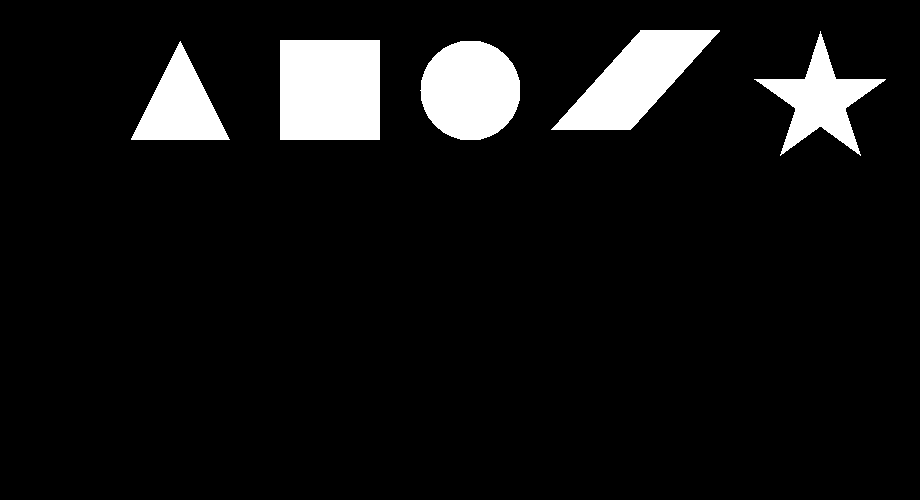
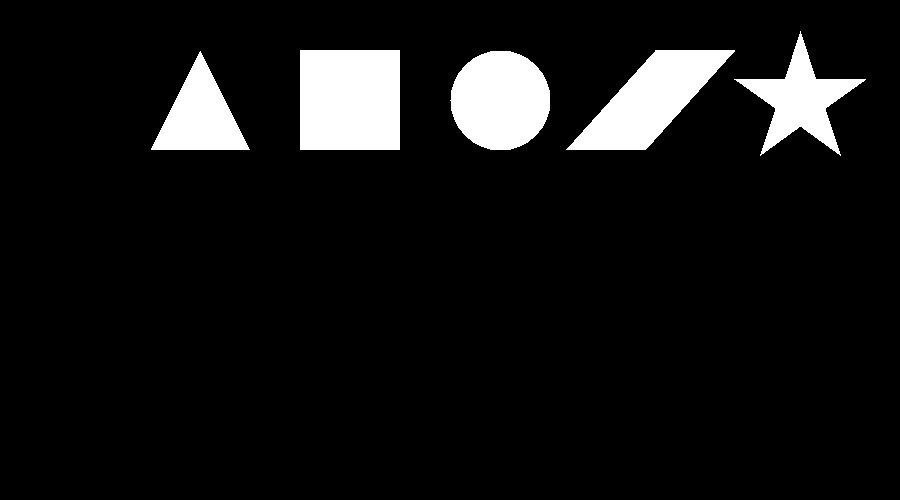
david modify vcs code

diff --git a/_2.vcs/my_vcs_lesson_6/_DiskDirectoryFile/vcs_DiskDirectoryFile1/vcs_DiskDirectoryFile1/Form1.cs b/_2.vcs/my_vcs_lesson_6/_DiskDirectoryFile/vcs_DiskDirectoryFile1/vcs_DiskDirectoryFile1/Form1.cs
@@ -323,7 +323,7 @@ namespace vcs_DiskDirectoryFile1
         private void bt_file00_Click(object sender, EventArgs e)
         {
             string filename1 = @"C:\_git\vcs\_1.data\______test_files1\aaaaaaa.txt";
-            string filename2 = @"C:/_git/vcs/_1.data/______test_files2/aaaa.txt";
+            string filename2 = @"D:/_git/vcs/_1.data/______test_files2/aaaa.txt";
 
             if (File.Exists(filename1) == false)            //確認檔案是否存在
                 richTextBox1.Text += "檔案: " + filename1 + " 不存在\n";
@@ -670,7 +670,7 @@ namespace vcs_DiskDirectoryFile1
         private void bt_dir01_Click(object sender, EventArgs e)
         {
             //確認資料夾是否存在
-            string Path = @"C:/_git/vcs/_1.data/______test_files1/aaaa/bbbb";
+            string Path = @"D:/_git/vcs/_1.data/______test_files1/aaaa/bbbb";
             if (Directory.Exists(Path) == false)    //確認資料夾是否存在
                 richTextBox1.Text += "資料夾: " + Path + " 不存在\n";
             else
@@ -680,7 +680,7 @@ namespace vcs_DiskDirectoryFile1
         private void bt_dir02_Click(object sender, EventArgs e)
         {
             //刪除資料夾
-            string Path = @"C:/_git/vcs/_1.data/______test_files_file_name2";
+            string Path = @"D:/_git/vcs/_1.data/______test_files_file_name2";
             /*
             if (Directory.Exists(Path) == false)    //確認資料夾是否存在
                 richTextBox1.Text += "資料夾: " + Path + " 不存在，不能刪除\n";
@@ -720,7 +720,7 @@ namespace vcs_DiskDirectoryFile1
         private void bt_dir04_Click(object sender, EventArgs e)
         {
             //建立一個新資料夾
-            string newPath = @"C:/_git/vcs/_1.data/______test_files_file_name2/aaaa/bbbb";
+            string newPath = @"D:/_git/vcs/_1.data/______test_files_file_name2/aaaa/bbbb";
             if (Directory.Exists(newPath) == false)     //確認資料夾是否存在
             {
                 Directory.CreateDirectory(newPath);
@@ -735,8 +735,8 @@ namespace vcs_DiskDirectoryFile1
         private void bt_dir05_Click(object sender, EventArgs e)
         {
             //未完成
-            string Path_old = @"C:/_git/vcs/_1.data/______test_files_file_name1";
-            string Path_new = @"C:/_git/vcs/_1.data/______test_files_file_name2";
+            string Path_old = @"D:/_git/vcs/_1.data/______test_files_file_name1";
+            string Path_new = @"D:/_git/vcs/_1.data/______test_files_file_name2";
             if (Directory.Exists(Path_old) == false)    //確認資料夾是否存在
             {
                 richTextBox1.Text += "原始資料夾: " + Path_old + " 不存在, 不能拷貝\n";
@@ -756,8 +756,8 @@ namespace vcs_DiskDirectoryFile1
 
         private void bt_dir06_Click(object sender, EventArgs e)
         {
-            string Path_old = @"C:/_git/vcs/_1.data/______test_files_file_name2";
-            string Path_new = @"C:/_git/vcs/_1.data/______test_files_file_name3";
+            string Path_old = @"D:/_git/vcs/_1.data/______test_files_file_name2";
+            string Path_new = @"D:/_git/vcs/_1.data/______test_files_file_name3";
             if (Directory.Exists(Path_old) == false)    //確認資料夾是否存在
             {
                 richTextBox1.Text += "原始資料夾: " + Path_old + " 不存在, 不能拷貝\n";
@@ -792,7 +792,7 @@ namespace vcs_DiskDirectoryFile1
         private void bt_dir07_Click(object sender, EventArgs e)
         {
             //刪除資料夾
-            string target_dir = @"C:/_git/vcs/_1.data/______test_files_file_name2";
+            string target_dir = @"D:/_git/vcs/_1.data/______test_files_file_name2";
 
             if (Directory.Exists(target_dir))       //確認資料夾是否存在
             {
@@ -1181,7 +1181,7 @@ namespace vcs_DiskDirectoryFile1
         private void bt_write02_Click(object sender, EventArgs e)
         {
             //string wmi_data_filename = "wmi-" + DateTime.Now.ToString("yyyy-MMdd-HHmm") + ".txt";
-            string wmi_data_filename = @"C:/_git/vcs/_1.data/______test_files2/vcs-" + DateTime.Now.ToString("yyyy-MMdd-HHmm") + ".txt";
+            string wmi_data_filename = @"D:/_git/vcs/_1.data/______test_files2/vcs-" + DateTime.Now.ToString("yyyy-MMdd-HHmm") + ".txt";
             if (File.Exists(wmi_data_filename) == false)
             {
                 MessageBox.Show("檔案 " + wmi_data_filename + " 不存在，製作一個。");
@@ -1379,7 +1379,7 @@ namespace vcs_DiskDirectoryFile1
             openFileDialog1.FilterIndex = 1;
             openFileDialog1.RestoreDirectory = true;
 
-            //openFileDialog1.InitialDirectory = @"C:/_git/vcs/_1.data/______test_files2";
+            //openFileDialog1.InitialDirectory = @"D:/_git/vcs/_1.data/______test_files2";
             //openFileDialog1.InitialDirectory = Directory.GetCurrentDirectory();         //從目前目錄開始尋找檔案
             openFileDialog1.InitialDirectory = @"C:\_git\vcs\_1.data\______test_files1\";
             openFileDialog1.RestoreDirectory = true;

diff --git a/_2.vcs/my_vcs_lesson_7_free/_vcs_MakePicture/_vcs_MakePicture/Form1.cs b/_2.vcs/my_vcs_lesson_7_free/_vcs_MakePicture/_vcs_MakePicture/Form1.cs
@@ -3223,22 +3223,22 @@ namespace _vcs_MakePicture
             //逐點製作圖檔
             int xx;
             int yy;
-            int x_st = 180;
-            int y_st = 40;
+            int x_st = 200;
+            int y_st = 50;
 
-            int W = 920;
+            int W = 900;
             int H = 500;//有註解的 500
 
-            bool flag_with_mesg = true;
+            bool flag_with_mesg = false;
 
             if (flag_with_mesg == true)//有註解的 500
             {
-                W = 920;
+                W = 900;
                 H = 500;
             }
             else//無註解的
             {
-                W = 840;
+                W = 780;
                 H = 180;//無註解的
                 x_st = 90;
             }
@@ -3271,11 +3271,11 @@ namespace _vcs_MakePicture
             x_st += 100;
             g.FillRectangle(sb, new Rectangle(x_st + 0, y_st + 0, 100, 100));
 
-            x_st += 140;
+            x_st += 150;
             g.FillEllipse(sb, new Rectangle(x_st, y_st, 100, 100));
 
-            x_st += 220;
-            y_st -= 10;
+            x_st += 255-50;
+            //y_st -= 20;
             points = new Point[4];
             points[0] = new Point(x_st + 0, y_st + 0);
             points[1] = new Point(x_st + 80, y_st + 0);
@@ -3283,11 +3283,34 @@ namespace _vcs_MakePicture
             points[3] = new Point(x_st - 10 - 80, y_st + 100);
             g.FillPolygon(sb, points);
 
-            x_st += 110;
+            p = new Pen(Color.Red, 1);
+            //g.DrawLine(p, points[0], points[2]);
+            //g.DrawLine(p, points[1], points[3]);
+
+            x_st += 145;
+            y_st += 50;
             int radius = 70;
-            Point center = new Point(x_st + radius, y_st + radius);
+            Point center = new Point(x_st, y_st);
             FillStar(g, center, radius, Color.White);
 
+            /*
+            int x;
+            int y;
+            for (x = 0; x <= W; x += 100)
+            {
+                p = new Pen(Color.Red, 1);
+                Point pointa = new Point(x, 0);
+                Point pointb = new Point(x, H);
+                g.DrawLine(p, pointa, pointb);//垂直線
+            }
+            for (y = 0; y <= H; y += 100)
+            {
+                p = new Pen(Color.Red, 1);
+                Point pointa = new Point(0, y);
+                Point pointb = new Point(W, y);
+                g.DrawLine(p, pointa, pointb);//水平線
+            }
+            */
             pictureBox1.Image = bitmap1;
             pictureBox1.SizeMode = PictureBoxSizeMode.Zoom;
         }

diff --git a/_2.vcs/my_vcs_lesson_6/_Network/vcs_Network4_network_http/vcs_Network4_network_http/Form1.cs b/_2.vcs/my_vcs_lesson_6/_Network/vcs_Network4_network_http/vcs_Network4_network_http/Form1.cs
@@ -1,4 +1,4 @@
-using System;
+using System;
 using System.Collections.Generic;
 using System.ComponentModel;
 using System.Data;
@@ -705,9 +705,9 @@ namespace vcs_Network4_network_http
         private void button21_Click(object sender, EventArgs e)
         {
             //抓取網頁資料並分析之
-            //file:///C:/_git/vcs/_1.data/_html/%E6%9C%B1%E5%86%B6%E8%95%99%E8%80%81%E5%B8%AB%E7%9A%84%E9%9B%BB%E8%85%A6%E6%95%99%E5%AE%A4.html
+            //file:///D:/_git/vcs/_1.data/_html/%E6%9C%B1%E5%86%B6%E8%95%99%E8%80%81%E5%B8%AB%E7%9A%84%E9%9B%BB%E8%85%A6%E6%95%99%E5%AE%A4.html
 
-            string url = @"file:///C:/_git/vcs/_1.data/_html/%E6%9C%B1%E5%86%B6%E8%95%99%E8%80%81%E5%B8%AB%E7%9A%84%E9%9B%BB%E8%85%A6%E6%95%99%E5%AE%A4.html";
+            string url = @"file:///D:/_git/vcs/_1.data/_html/%E6%9C%B1%E5%86%B6%E8%95%99%E8%80%81%E5%B8%AB%E7%9A%84%E9%9B%BB%E8%85%A6%E6%95%99%E5%AE%A4.html";
             string txtURL = "aaaa.txt";
 
             GetHtmlData();
@@ -730,7 +730,7 @@ namespace vcs_Network4_network_http
         /// </summary>
         public static void GetHtmlData()
         {
-            string url = @"file:///C:/_git/vcs/_1.data/_html/%E6%9C%B1%E5%86%B6%E8%95%99%E8%80%81%E5%B8%AB%E7%9A%84%E9%9B%BB%E8%85%A6%E6%95%99%E5%AE%A4.html";
+            string url = @"file:///D:/_git/vcs/_1.data/_html/%E6%9C%B1%E5%86%B6%E8%95%99%E8%80%81%E5%B8%AB%E7%9A%84%E9%9B%BB%E8%85%A6%E6%95%99%E5%AE%A4.html";
             string txtURL = "aaaa.txt";
 
             WebRequest request = WebRequest.Create(url);

diff --git a/_2.vcs/my_vcs_lesson_7_free/vcs_Remove_Bin_Obj/vcs_Remove_Bin_Obj/Form1.cs b/_2.vcs/my_vcs_lesson_7_free/vcs_Remove_Bin_Obj/vcs_Remove_Bin_Obj/Form1.cs
@@ -94,8 +94,8 @@ namespace vcs_Remove_Bin_Obj
 
             this.Size = new Size(1200, 820);
 
-            tb_string_old.Text = @"C:/_git/vcs/_1.data/______test_files2";
-            tb_string_new.Text = @"C:/_git/vcs/_1.data/______test_files1/";
+            tb_string_old.Text = @"D:/_git/vcs/_1.data/______test_files2";
+            tb_string_new.Text = @"D:/_git/vcs/_1.data/______test_files1/";
         }
 
         private void bt_clear_Click(object sender, EventArgs e)
@@ -115,7 +115,7 @@ namespace vcs_Remove_Bin_Obj
             richTextBox1.Text += "目前所在路徑: " + currentPath + "\n";
 
             //確認資料夾是否存在
-            string Path = @"C:/_git/vcs/_1.data/______test_files2/aaaa/bbbb";
+            string Path = @"D:/_git/vcs/_1.data/______test_files2/aaaa/bbbb";
             if (Directory.Exists(Path) == false)    //確認資料夾是否存在
                 richTextBox1.Text += "資料夾: " + Path + " 不存在\n";
             else
@@ -936,7 +936,7 @@ namespace vcs_Remove_Bin_Obj
             int len = filenames.Count;
             richTextBox1.Text += "找到檔案個數 : " + len.ToString() + "\n";
 
-            //private Icon icon1 = new Icon(@"C:/_git/vcs/_1.data/______test_files1/_icon/快.ico");
+            //private Icon icon1 = new Icon(@"D:/_git/vcs/_1.data/______test_files1/_icon/快.ico");
             string pattern1 = string_old;
             string pattern2 = string_new;
 

diff --git a/_4.python/opencv/opencv4_video/opencv_common.py b/_4.python/opencv/opencv4_video/opencv_common.py
@@ -67,6 +67,10 @@ filename_lena_gray = "D:/_git/vcs/_4.python/opencv/data/lena_gray.bmp"
 filename_barbara = "D:/_git/vcs/_4.python/opencv/data/barbara.bmp"
 filename_gray = "D:/_git/vcs/_4.python/opencv/data/threshold/gray_scale.jpg"
 
+filename_star_white = "D:/_git/vcs/_4.python/opencv/data/_shape/star_white.bmp"
+filename_star_blue = "D:/_git/vcs/_4.python/opencv/data/_shape/star_blue.bmp"
+filename_star_silver = "D:/_git/vcs/_4.python/opencv/data/_shape/star_silver.bmp"
+
 video_filename = "D:/_git/vcs/_4.python/opencv/data/_video/spiderman.mp4"
 
 print("------------------------------------------------------------")  # 60個
@@ -80,6 +84,14 @@ MAGENTA = (255, 0, 255)  # B G R
 YELLOW = (0, 255, 255)  # B G R
 BLACK = (0, 0, 0)  # B G R
 WHITE = (255, 255, 255)  # B G R
+GRAY = (128, 128, 128)  # B G R
+MAROON = (0, 0, 128)  # 栗色, Maroon
+OLIVE = (0, 128, 128)  # 橄欖綠, Olive
+LIME = (0, 128, 0)  # 綠色, Green
+TEAL = (128, 128, 0)  # 藍綠色, Teal
+NAVY = (128, 0, 0)  # 藏青色, Navy
+PURPLE = (128, 0, 128)  # 紫色, Purple
+SILVER = (192, 192, 192)  # 銀色, Silver
 colors = [RED, GREEN, BLUE, CYAN, MAGENTA, YELLOW, BLACK, WHITE]
 
 # BGR

diff --git a/_2.vcs/my_vcs_lesson_6/_DiskDirectoryFile/vcs_FolderInfo/vcs_FolderInfo/Form1.cs b/_2.vcs/my_vcs_lesson_6/_DiskDirectoryFile/vcs_FolderInfo/vcs_FolderInfo/Form1.cs
@@ -38,7 +38,7 @@ namespace vcs_FolderInfo
             listView1.Columns.Add("名稱", 200, HorizontalAlignment.Center);
             listView1.Columns.Add("大小", 200, HorizontalAlignment.Center);
             listView1.Columns.Add("修改日期", 200, HorizontalAlignment.Center);
-            //string filePath = @"C:/_git/vcs/_1.data/______test_files1/";
+            //string filePath = @"D:/_git/vcs/_1.data/______test_files1/";
             string filePath = @"C:\_git\vcs\_1.data\______test_files1\__pic\_book_magazine";
 
             /*

diff --git a/_2.vcs/my_vcs_lesson_6/_Network/vcs_ReadWrite_HTML3/vcs_ReadWrite_HTML3/Form1.cs b/_2.vcs/my_vcs_lesson_6/_Network/vcs_ReadWrite_HTML3/vcs_ReadWrite_HTML3/Form1.cs
@@ -1,4 +1,4 @@
-using System;
+using System;
 using System.Collections.Generic;
 using System.ComponentModel;
 using System.Data;
@@ -36,7 +36,7 @@ namespace vcs_ReadWrite_HTML3
             //將HTML檔案讀到WebBrowser裏
 
             //string url = @"https://www.syhtcgf.com/perl/perl-toc/ch09.html";
-            string url = @"C:/_git/vcs/_1.data/_html/朱冶蕙老師的電腦教室.html";
+            string url = @"D:/_git/vcs/_1.data/_html/朱冶蕙老師的電腦教室.html";
             webBrowser1.Navigate(url);
         }
 

diff --git a/_4.python/opencv/opencv_common.py b/_4.python/opencv/opencv_common.py
@@ -84,6 +84,14 @@ MAGENTA = (255, 0, 255)  # B G R
 YELLOW = (0, 255, 255)  # B G R
 BLACK = (0, 0, 0)  # B G R
 WHITE = (255, 255, 255)  # B G R
+GRAY = (128, 128, 128)  # B G R
+MAROON = (0, 0, 128)  # 栗色, Maroon
+OLIVE = (0, 128, 128)  # 橄欖綠, Olive
+LIME = (0, 128, 0)  # 綠色, Green
+TEAL = (128, 128, 0)  # 藍綠色, Teal
+NAVY = (128, 0, 0)  # 藏青色, Navy
+PURPLE = (128, 0, 128)  # 紫色, Purple
+SILVER = (192, 192, 192)  # 銀色, Silver
 colors = [RED, GREEN, BLUE, CYAN, MAGENTA, YELLOW, BLACK, WHITE]
 
 # BGR

diff --git a/_2.vcs/my_vcs_lesson_6/_Network/vcs_WebClient/vcs_WebClient/Form1.cs b/_2.vcs/my_vcs_lesson_6/_Network/vcs_WebClient/vcs_WebClient/Form1.cs
@@ -399,7 +399,7 @@ namespace vcs_WebClient
             richTextBox1.Text += "WebClient OpenRead\t取得網頁資料並存成檔案......\n";
             Application.DoEvents();
 
-            string url = "file:///C:/_git/vcs/_1.data/_html/My_Link.html";
+            string url = "file:///D:/_git/vcs/_1.data/_html/My_Link.html";
             //string url = "https://www.google.com.tw/";
 
             WebClient wc = new WebClient();     // 建立 WebClient

diff --git a/_2.vcs/my_vcs_lesson_f_mix_new/vcs_Mix02/vcs_Mix02/Form1.cs b/_2.vcs/my_vcs_lesson_f_mix_new/vcs_Mix02/vcs_Mix02/Form1.cs
@@ -861,7 +861,7 @@ namespace vcs_Mix02
         private void button24_Click(object sender, EventArgs e)
         {
             show_button_text(sender);
-            string url = @"C:/_git/vcs/_1.data/_html/朱冶蕙老師的電腦教室.html";
+            string url = @"D:/_git/vcs/_1.data/_html/朱冶蕙老師的電腦教室.html";
             //foreach (var fileName in fileNameList)
             {
                 MemoryStream ms = GetResponse(url);

diff --git a/_2.vcs/my_vcs_lesson_6_draw/_vcs_Draw_1/vcs_Draw_Bitmap/vcs_Draw_Bitmap/Form1.cs b/_2.vcs/my_vcs_lesson_6_draw/_vcs_Draw_1/vcs_Draw_Bitmap/vcs_Draw_Bitmap/Form1.cs
@@ -420,7 +420,7 @@ namespace vcs_Draw_Bitmap
         {
             //複製部分圖片
             // Create a Bitmap object from a file.
-            Bitmap bitmap1 = new Bitmap(@"C:/_git/vcs/_1.data/______test_files1/bear.jpg");
+            Bitmap bitmap1 = new Bitmap(@"D:/_git/vcs/_1.data/______test_files1/bear.jpg");
 
             // Clone a portion of the Bitmap object.
             RectangleF cloneRect = new RectangleF(530, 30, 200, 200);

diff --git a/_2.vcs/my_vcs_lesson_6/_DiskDirectoryFile/vcs__Mix00/vcs__Mix00/Form1.cs b/_2.vcs/my_vcs_lesson_6/_DiskDirectoryFile/vcs__Mix00/vcs__Mix00/Form1.cs
@@ -666,7 +666,7 @@ namespace vcs__Mix00
         private void button20_Click(object sender, EventArgs e)
         {
             //刪除資料夾下子資料夾(偽)
-            var pathstr = @"C:/_git/vcs/_1.data/______test_files1";
+            var pathstr = @"D:/_git/vcs/_1.data/______test_files1";
             if (Directory.Exists(pathstr))
             {
                 //var strname=DateTime.Now.ToShortDateString().Replace("/","-")+".txt";
